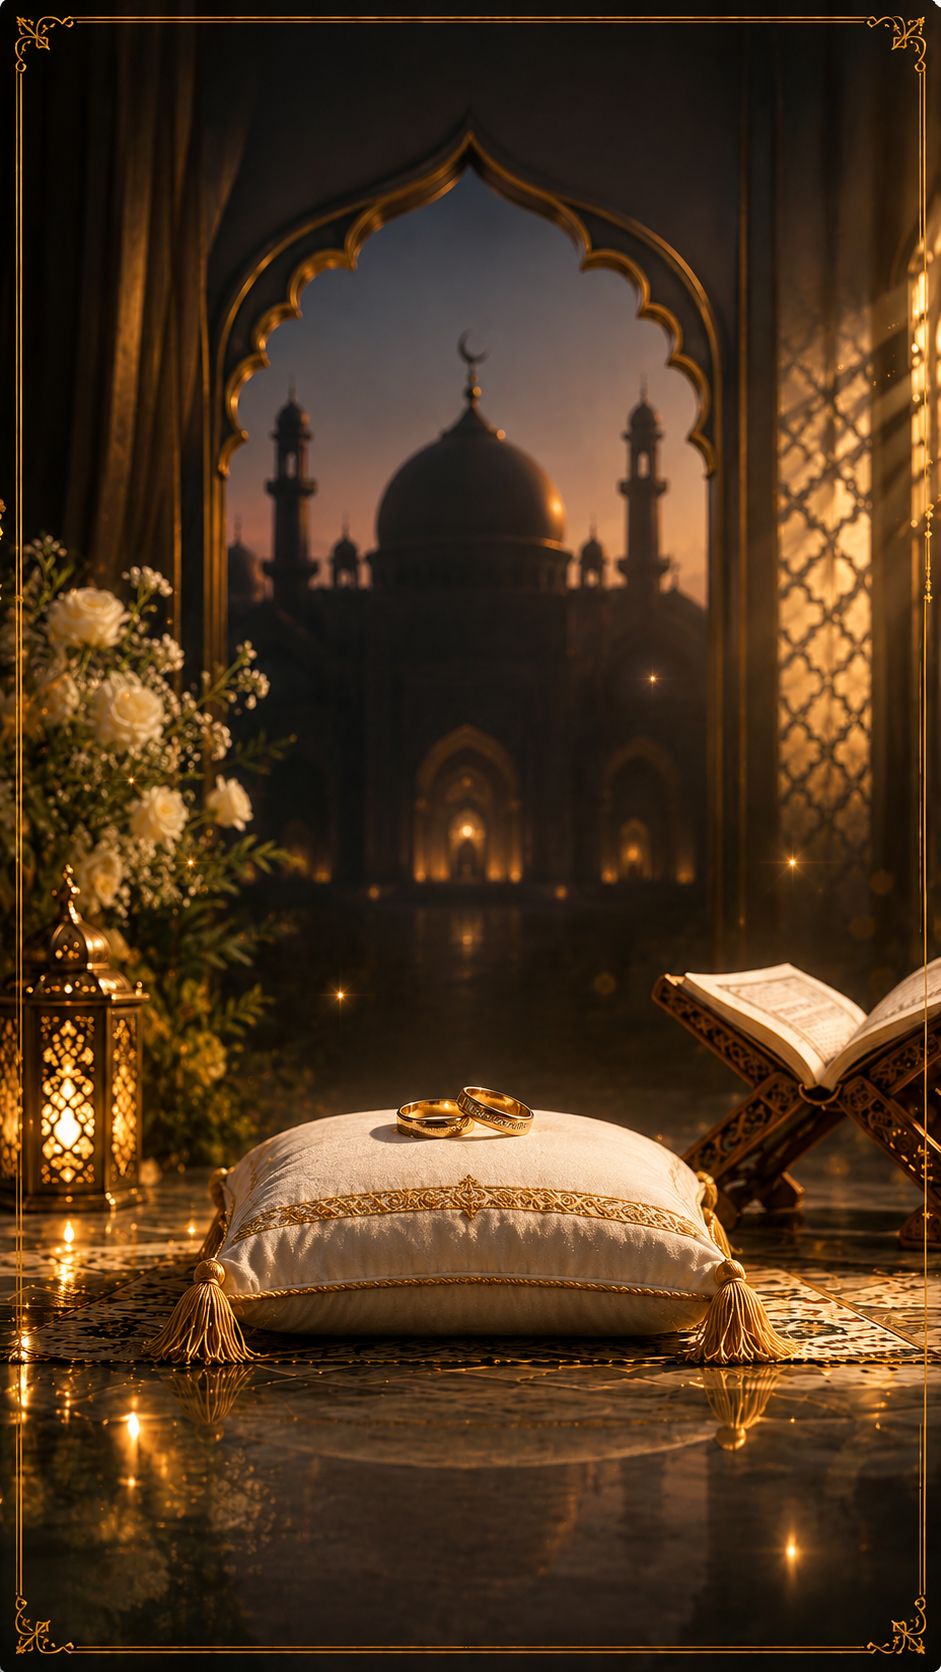
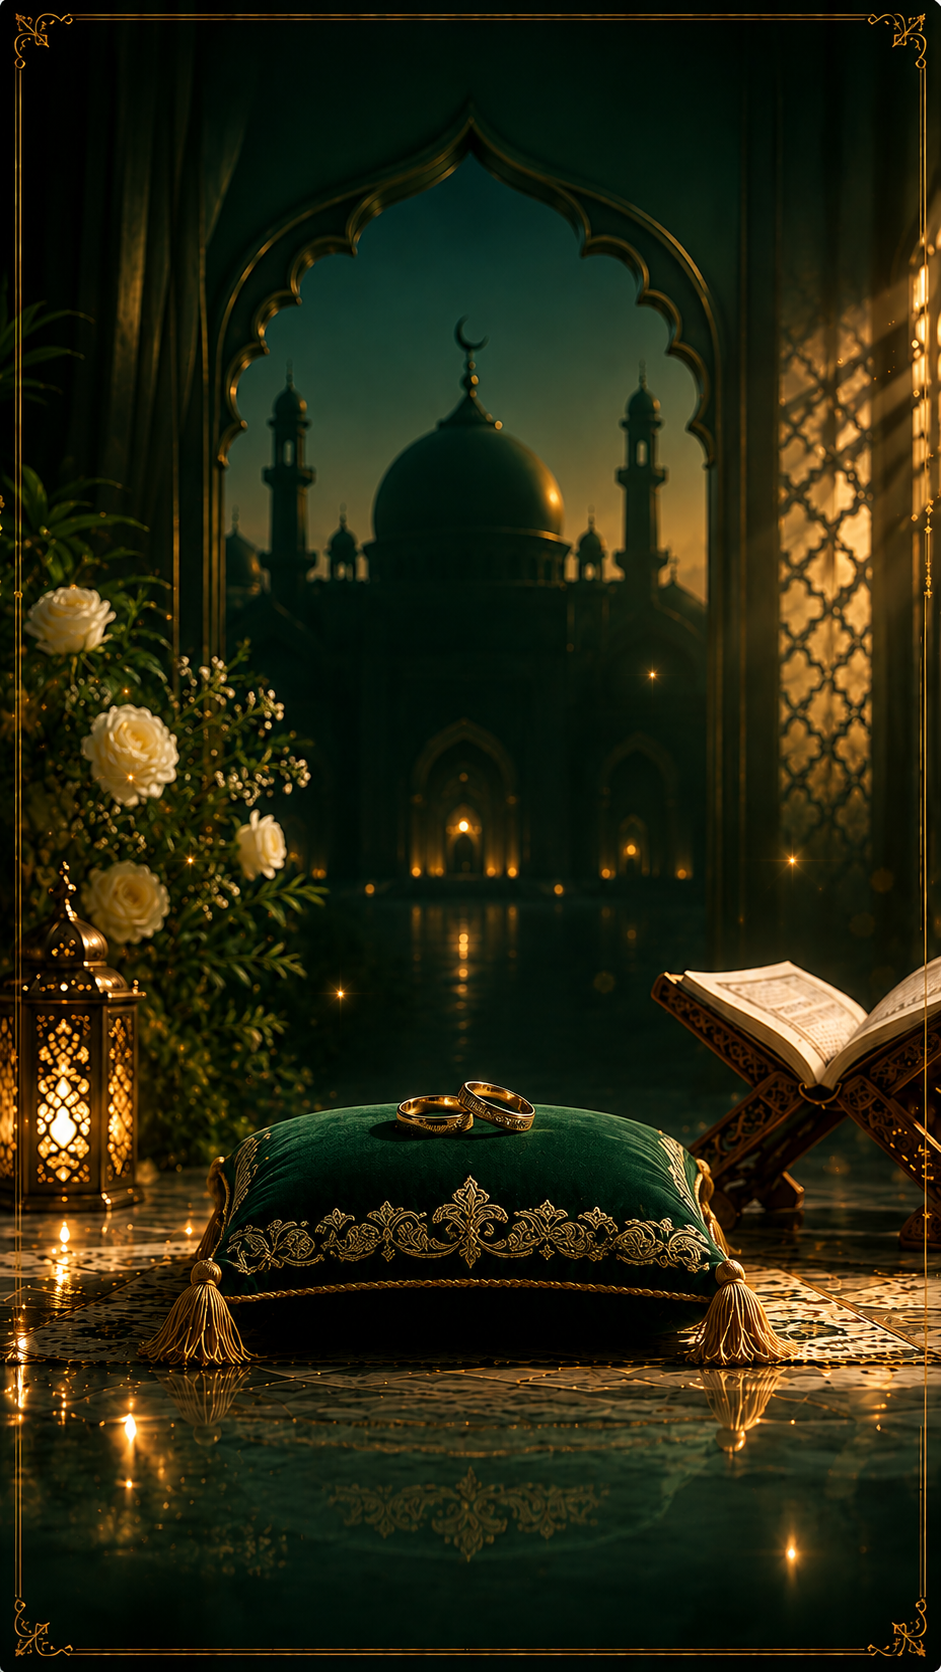
feat(orders/9): apply new hero artwork background, adjust typography and cta button

diff --git a/templates/orders/9/css/style.css b/templates/orders/9/css/style.css
@@ -279,163 +279,36 @@ body {
   left: 0;
   width: 100%;
   height: 100%;
-  background: radial-gradient(circle at 50% 30%, rgba(6, 42, 32, 0.04) 0%, rgba(3, 24, 18, 0.25) 75%, rgba(2, 13, 10, 0.6) 100%);
-  pointer-events: none;
-  z-index: 1;
-}
-
-/* 1. Four 3D Gold Girih Corner Arch Frames (frame_corner_tr) */
-.hero-corner-frame {
-  position: absolute;
-  width: clamp(92px, 30vw, 200px);
-  height: auto;
-  pointer-events: none;
-  z-index: 10;
-  opacity: 0;
-  transition: opacity 1.2s ease 0.2s, transform 1.2s cubic-bezier(0.16, 1, 0.3, 1) 0.2s;
-  filter: drop-shadow(0 4px 10px rgba(0, 0, 0, 0.55));
-}
-
-.hero-corner-frame.corner-tl {
-  top: 0px;
-  left: 0px;
-  transform: translateY(-8px) scaleY(-1);
-}
-
-.hero-corner-frame.corner-tr {
-  top: 0px;
-  right: 0px;
-  transform: translateY(-8px) scale(-1, -1);
-}
-
-.hero-corner-frame.corner-bl {
-  bottom: 0px;
-  left: 0px;
-  transform: translateY(8px);
-}
-
-.hero-corner-frame.corner-br {
-  bottom: 0px;
-  right: 0px;
-  transform: translateY(8px) scaleX(-1);
-}
-
-.hero-loaded .hero-corner-frame.corner-tl {
-  opacity: 0.95;
-  transform: translate(0, 0) scaleY(-1);
-}
-
-.hero-loaded .hero-corner-frame.corner-tr {
-  opacity: 0.95;
-  transform: translate(0, 0) scale(-1, -1);
-}
-
-.hero-loaded .hero-corner-frame.corner-bl {
-  opacity: 0.95;
-  transform: translate(0, 0);
-}
-
-.hero-loaded .hero-corner-frame.corner-br {
-  opacity: 0.95;
-  transform: translate(0, 0) scaleX(-1);
-}
-
-/* 2. Hanging 3D Gold Lanterns (Enlarged + Anchored with Top Chains) */
-.lantern-wrapper {
-  position: absolute;
-  z-index: 5;
-  pointer-events: none;
-  opacity: 0;
-  transition: opacity 1.2s ease 0.4s, transform 1.2s cubic-bezier(0.16, 1, 0.3, 1) 0.4s;
-}
-
-/* Realistic Golden Suspension Chain extending all the way to the top frame */
-.lantern-wrapper::before {
-  content: '';
-  position: absolute;
-  top: -240px;
-  left: 50%;
-  transform: translateX(-50%);
-  width: 2px;
-  height: 260px;
-  background: repeating-linear-gradient(
+  background: linear-gradient(
     180deg,
-    #dfc285 0px,
-    #c6a15b 3px,
-    #9d7d43 6px,
-    #dfc285 8px
+    rgba(2, 20, 15, 0.72) 0%,
+    rgba(2, 20, 15, 0.35) 24%,
+    rgba(2, 20, 15, 0.04) 48%,
+    rgba(2, 20, 15, 0.28) 78%,
+    rgba(2, 20, 15, 0.78) 100%
   );
-  box-shadow: 0 0 5px rgba(198, 161, 91, 0.6), 1px 0 2px rgba(0, 0, 0, 0.8);
+  pointer-events: none;
   z-index: 1;
 }
 
-/* Left Lantern: Enlarged, prominent, hanging at top: 9.2%, left: 8.5% */
-.lantern-left-wrap {
-  top: 9.2%;
-  left: 8.5%;
-  width: 100%;
-  max-width: 100px;
-  transform: translateY(-12px);
+/* 1. Four 3D Gold Girih Corner Arch Frames (Hidden to let artwork's own frame shine) */
+.hero-corner-frame {
+  display: none !important;
 }
 
-/* Right Lantern: Enlarged, hanging at top: 11.0%, right: 7.5% */
-.lantern-right-wrap {
-  top: 11.0%;
-  right: 7.5%;
-  width: 100%;
-  max-width: 76px;
-  transform: translateY(-12px);
+/* 2. Hanging 3D Gold Lanterns (Hidden to let artwork's own lantern & Quran shine) */
+.lantern-wrapper {
+  display: none !important;
 }
 
-.hero-loaded .lantern-left-wrap {
-  opacity: 1;
-  transform: translateY(0);
-}
-
-.hero-loaded .lantern-right-wrap {
-  opacity: 0.92;
-  transform: translateY(0);
-}
-
-.hero-hanging-lantern {
-  width: 100%;
-  height: auto;
-  display: block;
-  filter: drop-shadow(0 8px 18px rgba(0, 0, 0, 0.8)) drop-shadow(0 0 16px rgba(198, 161, 91, 0.6));
-  transform-origin: top center;
-  animation: lanternSway 5.5s ease-in-out infinite alternate;
-}
-
-.lantern-right-wrap .hero-hanging-lantern {
-  filter: blur(1px) drop-shadow(0 8px 18px rgba(0, 0, 0, 0.8)) drop-shadow(0 0 16px rgba(198, 161, 91, 0.45));
-  animation-delay: -2.8s;
-}
-
-@keyframes lanternSway {
-  0% { transform: rotate(-2deg); }
-  100% { transform: rotate(2deg); }
-}
-
-.lantern-glow {
-  position: absolute;
-  top: 50%;
-  left: 50%;
-  transform: translate(-50%, -50%);
-  width: 90px;
-  height: 90px;
-  background: radial-gradient(circle, rgba(223, 194, 133, 0.45) 0%, transparent 70%);
-  filter: blur(10px);
-  pointer-events: none;
-}
-
-/* 2. Top Header: Bismillahir Rohmanir Rohiym (Centered with safe margin from chains) */
+/* 2. Top Header: Bismillahir Rohmanir Rohiym */
 .hero-bismillah-wrap {
   position: absolute;
-  top: 4.6%;
+  top: clamp(18px, 3vh, 28px);
   left: 50%;
   transform: translateX(-50%) translateY(10px);
-  width: 70%;
-  max-width: 250px;
+  width: 85%;
+  max-width: 300px;
   text-align: center;
   z-index: 12;
   opacity: 0;
@@ -481,10 +354,10 @@ body {
   transform: rotate(45deg);
 }
 
-/* 3. Central Title Group (Arch Crown, SUNNAT TO'Y, Line, MUHAMMADALI, Divider) */
+/* 3. Central Title Group (Arch Crown, NIKOH TO'YI, Line, UCHQUNBEK & CHAROSXON, Divider) */
 .hero-title-group {
   position: absolute;
-  top: 27.8%;
+  top: clamp(52px, 7.8vh, 76px);
   left: 50%;
   transform: translateX(-50%);
   width: 100%;
@@ -495,12 +368,12 @@ body {
   z-index: 12;
 }
 
-/* Arch Crown Ornament (Width = 37.7%) */
+/* Arch Crown Ornament */
 .hero-arch-ornament {
-  width: 37.7%;
-  max-width: 170px;
+  width: clamp(120px, 32vw, 150px);
+  max-width: 160px;
   height: auto;
-  margin-bottom: clamp(6px, 1.2vh, 10px);
+  margin-bottom: clamp(4px, 0.8vh, 8px);
   filter: drop-shadow(0 4px 12px rgba(198, 161, 91, 0.45));
   opacity: 0;
   transform: translateY(12px) scale(0.95);
@@ -512,15 +385,15 @@ body {
   transform: translateY(0) scale(1);
 }
 
-/* SUNNAT TO'Y (Size = 20-22px, letter-spacing = 0.35em) */
+/* NIKOH TO'YI */
 .hero-event-type {
   font-family: var(--font-serif-title);
-  font-size: clamp(17px, 4.8vw, 22px);
+  font-size: clamp(15px, 4vw, 19px);
   font-weight: 600;
-  letter-spacing: 0.35em;
+  letter-spacing: 0.32em;
   color: var(--gold-light);
   text-transform: uppercase;
-  margin-left: 0.35em;
+  margin-left: 0.32em;
   text-shadow: 0 2px 12px rgba(0, 0, 0, 0.95), 0 0 20px rgba(198, 161, 91, 0.4);
   opacity: 0;
   transform: translateY(10px);
@@ -539,8 +412,8 @@ body {
   justify-content: center;
   gap: 6px;
   width: 100%;
-  max-width: 160px;
-  margin: clamp(6px, 1.2vh, 10px) 0 clamp(8px, 1.5vh, 12px);
+  max-width: 140px;
+  margin: clamp(4px, 0.8vh, 8px) 0 clamp(6px, 1.2vh, 10px);
   opacity: 0;
   transition: opacity 0.8s ease 1.0s;
 }
@@ -564,15 +437,15 @@ body {
   transform: rotate(45deg);
 }
 
-/* JAVOHIR — Visually Dominant, Grand Serif Typography */
+/* UCHQUNBEK & CHAROSXON — Visually Dominant, Grand Serif Typography */
 .hero-child-name {
   font-family: var(--font-serif-title);
-  font-size: clamp(32px, 9.2vw, 44px);
+  font-size: clamp(18px, 5.2vw, 27px);
   font-weight: 700;
-  letter-spacing: 0.2em;
+  letter-spacing: 0.14em;
   text-transform: uppercase;
-  margin-left: 0.2em;
-  width: 88%;
+  margin-left: 0.14em;
+  width: 92%;
   white-space: nowrap;
   text-align: center;
   position: relative;
@@ -685,12 +558,12 @@ body {
   }
 }
 
-/* Floral Divider Ornament below MUHAMMADALI (Width = 33.4%) */
+/* Floral Divider Ornament below (Width = 30vw) */
 .hero-divider-ornament {
-  width: 33.4%;
-  max-width: 155px;
+  width: clamp(110px, 30vw, 140px);
+  max-width: 145px;
   height: auto;
-  margin-top: clamp(8px, 1.4vh, 12px);
+  margin-top: clamp(6px, 1.1vh, 10px);
   filter: drop-shadow(0 2px 8px rgba(0, 0, 0, 0.8));
   opacity: 0;
   transform: translateY(8px);
@@ -702,14 +575,15 @@ body {
   transform: translateY(0);
 }
 
-/* 4. CTA Button (Top = 77.4%, Width = 82%) */
+/* 4. CTA Button (Anchored gracefully at bottom above marble floor reflection) */
 .hero-cta-wrap {
   position: absolute;
-  top: 77.4%;
+  top: auto;
+  bottom: clamp(16px, 3.5vh, 32px);
   left: 50%;
   transform: translateX(-50%) translateY(16px);
-  width: 88%;
-  max-width: 400px;
+  width: 90%;
+  max-width: 380px;
   display: flex;
   flex-direction: column;
   align-items: center;
@@ -726,8 +600,8 @@ body {
 .hero-cta-button {
   position: relative;
   width: 100%;
-  height: clamp(100px, 100vh, 100px);
-  min-height: 90px;
+  height: clamp(72px, 10.5vh, 85px);
+  min-height: 70px;
   display: flex;
   align-items: center;
   justify-content: center;

diff --git a/templates/orders/9/index.html b/templates/orders/9/index.html
@@ -70,23 +70,7 @@
         />
         <div class="hero-ambient-overlay" aria-hidden="true"></div>
 
-        <!-- 1. Four 3D Gold Girih Corner Arch Frames (frame_corner_tr) -->
-        <img src="assets/images/frame_corner_tr.png" alt="" class="hero-corner-frame corner-tl" aria-hidden="true" />
-        <img src="assets/images/frame_corner_tr.png" alt="" class="hero-corner-frame corner-tr" aria-hidden="true" />
-        <img src="assets/images/frame_corner_tr.png" alt="" class="hero-corner-frame corner-bl" aria-hidden="true" />
-        <img src="assets/images/frame_corner_tr.png" alt="" class="hero-corner-frame corner-br" aria-hidden="true" />
-
-        <!-- 2. Hanging 3D Gold Lanterns (Exact Reference Percentages) -->
-        <div class="lantern-wrapper lantern-left-wrap">
-          <img src="assets/images/lantern_sharp.png" alt="Sharqona Chiroq" class="hero-hanging-lantern" />
-          <div class="lantern-glow"></div>
-        </div>
-        <div class="lantern-wrapper lantern-right-wrap">
-          <img src="assets/images/lantern_sharp.png" alt="Sharqona Chiroq" class="hero-hanging-lantern" />
-          <div class="lantern-glow"></div>
-        </div>
-
-        <!-- 3. Top Header: Bismillahir Rohmanir Rohiym -->
+        <!-- 1. Top Header: Bismillahir Rohmanir Rohiym -->
         <div class="hero-bismillah-wrap">
           <p class="bismillah-text">Bismillahir Rohmanir Rohiym</p>
           <div class="bismillah-divider" aria-hidden="true">
